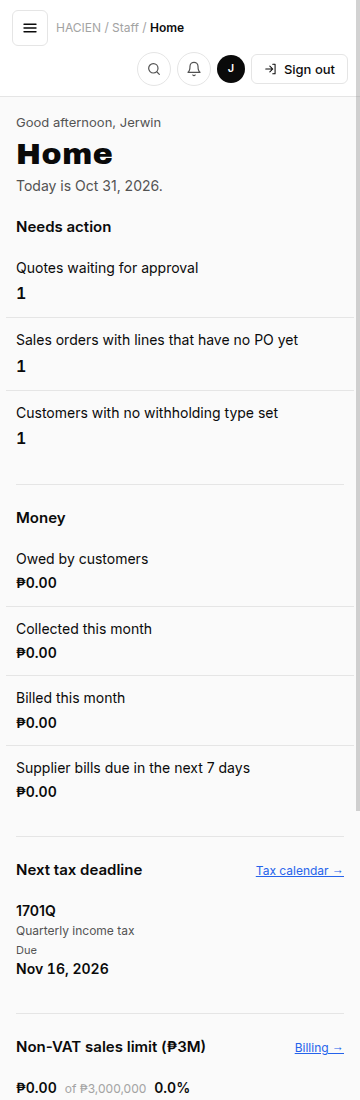
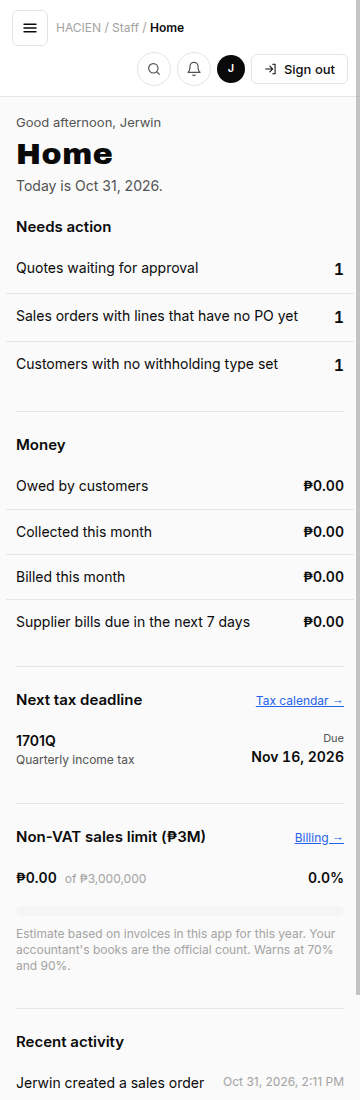
fix(brand-06): same Home row layout on mobile for every section
At ≤640px Needs action, Money, tax, and Recent activity all use label
left / value right on one line (same as desktop rhythm). Screenshots updated.

diff --git a/src/app/globals.css b/src/app/globals.css
@@ -4127,42 +4127,42 @@ button.contact-card-add {
   white-space: nowrap;
 }
 
-/* Mobile: every Home section row stacks the same way — label on top,
- * value flush left at the same indent (no right-aligned / indented counts). */
+/* Mobile: every Home section row uses the same layout — label left, value
+ * right on one line (label may wrap). Matches Needs action / Money / tax /
+ * activity; Non-VAT figures stay a single flush row with pct on the right. */
 @media (max-width: 640px) {
   .home-action-row,
   .home-money-row,
   .home-activity-row,
   .home-tax-link {
-    flex-direction: column;
+    flex-direction: row;
     align-items: flex-start;
-    justify-content: flex-start;
-    gap: 4px;
+    justify-content: space-between;
+    gap: 12px;
+  }
+  .home-action-label,
+  .home-money-label,
+  .home-activity-summary,
+  .home-tax-main {
+    flex: 1 1 auto;
+    min-width: 0;
   }
   .home-action-count,
   .home-money-amounts,
   .home-tax-due,
-  .home-activity-when,
-  .home-action-row .num,
-  .home-money-row .num,
-  .home-tax-link .num {
-    text-align: left;
+  .home-activity-when {
+    flex: 0 0 auto;
+    text-align: right;
     align-self: flex-start;
-    margin-left: 0;
-    min-width: 0;
-    width: auto;
   }
   .home-money-amounts {
-    align-items: flex-start;
+    align-items: flex-end;
   }
   .home-tax-due {
-    text-align: left;
-  }
-  .home-nonvat-figures {
-    justify-content: flex-start;
+    text-align: right;
   }
   .home-nonvat-pct {
-    margin-left: 0;
+    margin-left: auto;
   }
 }
 
